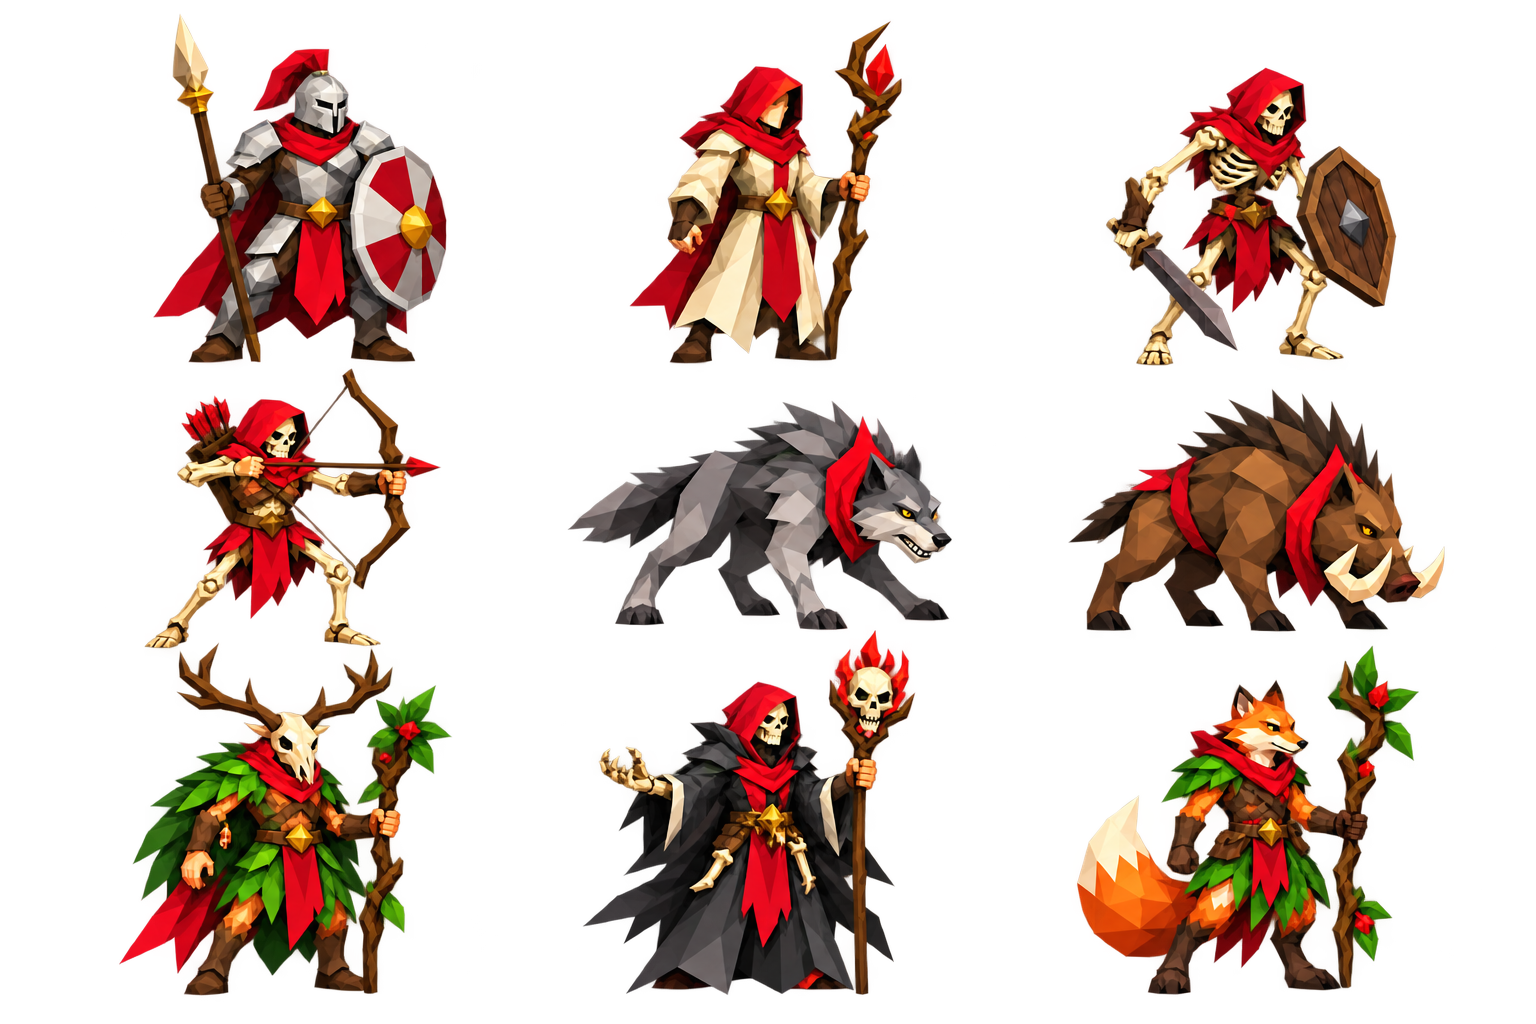
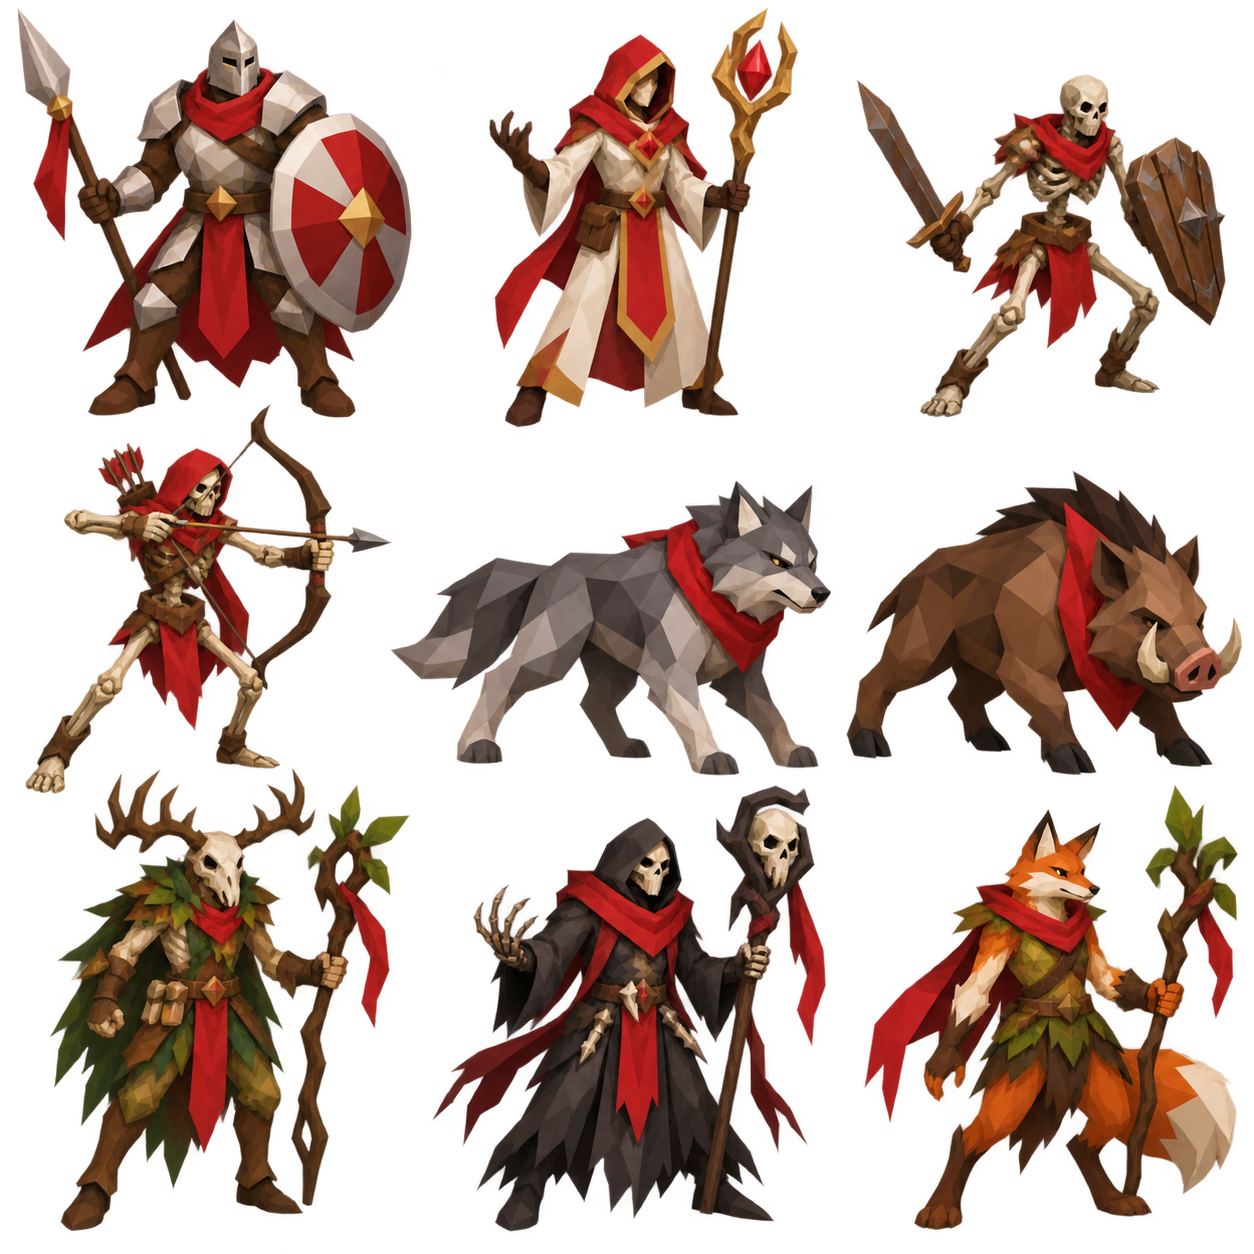
Restore approved low-poly unit designs with isolated crops

diff --git a/hex-command/src/presentation/campaign-art.ts b/hex-command/src/presentation/campaign-art.ts
@@ -50,21 +50,21 @@ export const campaignSheets = {
     },
   },
   "low-poly": {
-    width: 1536,
-    height: 1024,
-    revision: "2e823eba2a8c",
+    width: 1254,
+    height: 1254,
+    revision: "60b26106daaa",
     sources: {
       player: {
         filename: "campaign-low-poly-player.png",
-        width: 1536,
-        height: 1024,
-        revision: "e54dd9bd8af4",
+        width: 1254,
+        height: 1254,
+        revision: "113c2d93cb58",
       },
       enemy: {
         filename: "campaign-low-poly-enemy.png",
-        width: 1536,
-        height: 1024,
-        revision: "5c3658d0acd9",
+        width: 1254,
+        height: 1254,
+        revision: "f2e9abf27879",
       },
       terrain: {
         filename: "campaign-low-poly-terrain.png",
@@ -74,65 +74,203 @@ export const campaignSheets = {
       },
     },
     frames: {
-      player_warden: [121, 29, 351, 346],
-      player_adept: [630, 25, 303, 350],
-      player_skeleton: [1079, 102, 362, 272],
-      player_bone_archer: [138, 374, 331, 282],
-      player_wolf: [558, 414, 409, 241],
-      player_boar: [1079, 400, 411, 259],
-      player_wildkeeper: [98, 655, 353, 340],
-      player_necromancer: [606, 639, 333, 359],
-      player_thorncaller: [1084, 660, 350, 335],
-      enemy_warden: [151, 12, 298, 353],
-      enemy_adept: [627, 19, 278, 347],
-      enemy_skeleton: [1103, 65, 296, 303],
-      enemy_bone_archer: [139, 363, 307, 285],
-      enemy_wolf: [566, 399, 389, 232],
-      enemy_boar: [1067, 387, 380, 247],
-      enemy_wildkeeper: [114, 638, 343, 363],
-      enemy_necromancer: [581, 630, 336, 368],
-      enemy_thorncaller: [1074, 643, 347, 354],
+      player_warden: [47, 3, 393, 467],
+      player_adept: [485, 21, 319, 446],
+      player_skeleton: [877, 74, 357, 392],
+      player_bone_archer: [43, 429, 380, 378],
+      player_wolf: [405, 500, 434, 302],
+      player_boar: [867, 504, 370, 293],
+      player_wildkeeper: [42, 764, 403, 477],
+      player_necromancer: [436, 799, 384, 436],
+      player_thorncaller: [866, 811, 378, 427],
+      enemy_warden: [15, 6, 399, 414],
+      enemy_adept: [486, 6, 315, 424],
+      enemy_skeleton: [855, 72, 373, 348],
+      enemy_bone_archer: [23, 403, 370, 393],
+      enemy_wolf: [389, 478, 445, 300],
+      enemy_boar: [844, 469, 401, 309],
+      enemy_wildkeeper: [48, 767, 364, 467],
+      enemy_necromancer: [432, 783, 396, 451],
+      enemy_thorncaller: [862, 783, 378, 450],
       terrain_marsh: [58, 24, 539, 586],
       terrain_ruins: [664, 23, 538, 590],
       terrain_fort: [55, 617, 541, 593],
       terrain_sacred_grove: [660, 619, 542, 591],
     },
     clips: {
+      player_warden: [
+        [0.5, 0.0],
+        [393.0, 0.5],
+        [392.5, 467.0],
+        [239.5, 467.0],
+        [238.5, 428.0],
+        [207.0, 428.5],
+        [206.5, 467.0],
+        [0.0, 466.5],
+        [0.5, 0.0],
+      ],
+      player_bone_archer: [
+        [0.5, 0.0],
+        [58.5, 0.0],
+        [59.5, 30.0],
+        [139.5, 30.0],
+        [140.5, 0.0],
+        [271.5, 0.0],
+        [272.5, 39.0],
+        [333.5, 39.0],
+        [334.5, 0.0],
+        [379.5, 0.0],
+        [380.0, 264.5],
+        [364.0, 265.5],
+        [364.0, 294.5],
+        [380.0, 295.5],
+        [380.0, 372.5],
+        [371.5, 373.0],
+        [370.5, 378.0],
+        [347.5, 378.0],
+        [347.0, 368.5],
+        [338.5, 368.0],
+        [337.5, 378.0],
+        [260.5, 378.0],
+        [260.0, 361.5],
+        [243.5, 361.0],
+        [242.5, 378.0],
+        [156.5, 378.0],
+        [155.5, 368.0],
+        [148.5, 368.0],
+        [148.0, 377.5],
+        [142.5, 378.0],
+        [142.0, 337.5],
+        [122.5, 337.0],
+        [121.5, 378.0],
+        [120.5, 357.0],
+        [102.0, 357.5],
+        [101.5, 378.0],
+        [0.5, 378.0],
+        [0.5, 0.0],
+      ],
       player_wolf: [
-        [0, 0],
-        [409, 0],
-        [409, 224],
-        [322, 224],
-        [322, 241],
-        [0, 241],
+        [0.5, 0.0],
+        [433.5, 0.0],
+        [434.0, 301.5],
+        [30.5, 302.0],
+        [29.5, 297.0],
+        [20.5, 297.0],
+        [19.5, 302.0],
+        [0.5, 302.0],
+        [0.0, 73.5],
+        [16.0, 72.5],
+        [15.5, 60.0],
+        [0.0, 59.5],
+        [0.5, 0.0],
+      ],
+      player_wildkeeper: [
+        [0.5, 0.0],
+        [3.0, 0.5],
+        [3.5, 41.0],
+        [49.5, 41.0],
+        [50.5, 0.0],
+        [249.5, 0.0],
+        [250.5, 29.0],
+        [320.5, 29.0],
+        [321.5, 0.0],
+        [403.0, 0.5],
+        [403.0, 383.5],
+        [396.0, 384.5],
+        [396.0, 391.5],
+        [403.0, 392.5],
+        [402.5, 477.0],
+        [0.0, 476.5],
+        [0.5, 0.0],
       ],
       player_necromancer: [
-        [269, 0],
-        [333, 0],
-        [333, 359],
-        [0, 359],
-        [0, 16],
-        [269, 16],
+        [0.5, 0.0],
+        [384.0, 0.5],
+        [383.5, 436.0],
+        [0.0, 435.5],
+        [0.0, 70.5],
+        [7.0, 69.5],
+        [7.0, 56.5],
+        [0.0, 55.5],
+        [0.5, 0.0],
+      ],
+      enemy_warden: [
+        [0.5, 0.0],
+        [399.0, 0.5],
+        [398.5, 414.0],
+        [255.5, 414.0],
+        [254.5, 399.0],
+        [238.5, 399.0],
+        [237.5, 414.0],
+        [0.0, 413.5],
+        [0.5, 0.0],
       ],
       enemy_bone_archer: [
-        [0, 0],
-        [307, 0],
-        [307, 285],
-        [96, 285],
-        [96, 279],
-        [56, 279],
-        [56, 285],
-        [0, 285],
+        [0.5, 0.0],
+        [64.5, 0.0],
+        [65.5, 13.0],
+        [131.5, 13.0],
+        [132.5, 0.0],
+        [277.5, 0.0],
+        [278.5, 15.0],
+        [332.5, 15.0],
+        [333.5, 0.0],
+        [370.0, 0.5],
+        [370.0, 245.5],
+        [368.0, 246.5],
+        [368.0, 248.5],
+        [370.0, 249.5],
+        [369.5, 393.0],
+        [337.5, 393.0],
+        [336.5, 382.0],
+        [325.5, 382.0],
+        [324.5, 393.0],
+        [283.5, 393.0],
+        [282.5, 366.0],
+        [269.0, 366.5],
+        [268.5, 393.0],
+        [264.0, 392.5],
+        [263.5, 382.0],
+        [245.5, 382.0],
+        [244.5, 393.0],
+        [155.5, 393.0],
+        [154.5, 383.0],
+        [141.5, 383.0],
+        [141.0, 392.5],
+        [137.5, 393.0],
+        [136.5, 367.0],
+        [110.5, 367.0],
+        [109.5, 393.0],
+        [99.0, 392.5],
+        [98.5, 371.0],
+        [86.0, 371.5],
+        [85.5, 393.0],
+        [0.0, 392.5],
+        [0.5, 0.0],
+      ],
+      enemy_wolf: [
+        [0.5, 0.0],
+        [444.5, 0.0],
+        [445.0, 299.5],
+        [0.5, 300.0],
+        [0.0, 66.5],
+        [2.0, 65.5],
+        [2.0, 63.5],
+        [0.0, 62.5],
+        [0.5, 0.0],
       ],
       enemy_wildkeeper: [
-        [81, 0],
-        [121, 0],
-        [121, 11],
-        [343, 11],
-        [343, 363],
-        [0, 359],
-        [0, 11],
-        [81, 11],
+        [20.5, 0.0],
+        [206.5, 0.0],
+        [207.5, 2.0],
+        [227.5, 2.0],
+        [228.5, 0.0],
+        [364.0, 0.5],
+        [363.5, 467.0],
+        [0.0, 466.5],
+        [0.0, 27.5],
+        [20.0, 26.5],
+        [20.5, 0.0],
       ],
     },
   },
